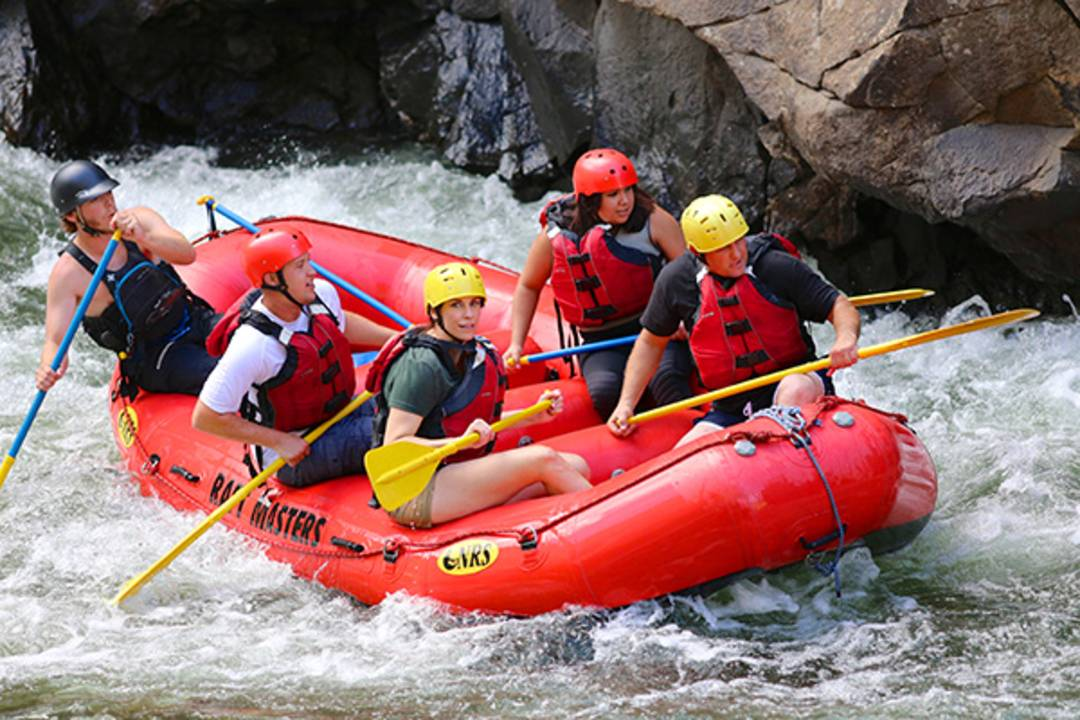
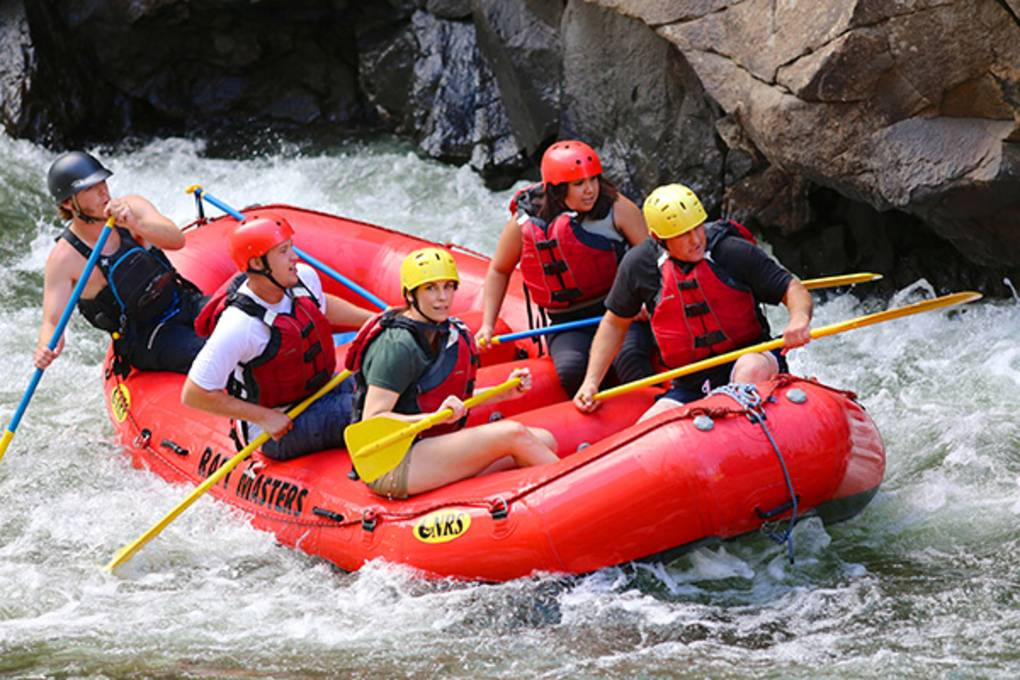
about v3

Changed region(s): [[0.2431, 0.7103, 0.3039, 0.7412], [0.7294, 0.5868, 0.7598, 0.6176], [0.4255, 0.7721, 0.4559, 0.8029]]

diff --git a/wwr/styles/rafting.css b/wwr/styles/rafting.css
@@ -10,9 +10,13 @@
 
 :root {
     --primary-color: #EDC9AF;
+    /* header / hero background */
     --secondary-color: #654321;
+    /* optional, used if needed later */
     --accent1-color: #264653;
+    /* dark text for contrast */
     --accent2-color: #808080;
+    /* lighter gray, used sparingly */
     --heading-font: "Times New Roman", "Georgia", serif;
     --body-font: Arial, Helvetica, sans-serif;
 }
@@ -33,7 +37,8 @@ footer {
 
 header {
     background-color: var(--primary-color);
-    color: var(--accent2-color);
+    color: var(--accent1-color);
+    /* Changed for better contrast */
     display: flex;
     align-items: center;
     justify-content: space-between;
@@ -53,13 +58,12 @@ nav ul {
 
 nav ul li a {
     text-decoration: none;
-    color: var(--accent2-color);
+    color: var(--accent1-color);
+    /* Dark text for good contrast */
     font-weight: bold;
 }
 
 nav ul li a:hover {
-    color: var(--secondary-color);
-    /* used variable to satisfy audit */
     text-decoration: underline;
 }
 
@@ -73,8 +77,7 @@ p {
 h1,
 h2 {
     font-family: var(--heading-font);
-    color: var(--accent1-color);
-    /* better contrast for h2 */
+    color: var(--primary-color);
 }
 
 .hero {
@@ -105,22 +108,28 @@ h2 {
     bottom: 30px;
     left: 20px;
     right: 20px;
-    background-color: rgba(255, 255, 255, 0.75);
+    background-color: rgba(255, 255, 255, 0.65);
+    /* More transparent banner */
+    display: flex;
+    align-items: center;
+    gap: 16px;
     padding: 12px 16px;
     border-radius: 8px;
 }
 
 .hero article img {
     float: right;
-    width: 200px;
+    /* Important for audit */
+    width: 350px;
+    /* slightly bigger */
     height: auto;
-    margin-left: 16px;
     border-radius: 8px;
     box-shadow: 0 2px 6px rgba(0, 0, 0, 0.3);
 }
 
 .hero article p {
     margin: 0;
+    color: var(--accent1-color);
     font-size: 1rem;
 }
 
@@ -145,4 +154,27 @@ footer {
 .socialmedia a img {
     width: 60px;
     height: 60px;
+}
+
+@media (max-width: 900px) {
+
+    header,
+    main,
+    footer {
+        width: 95%;
+    }
+
+    .hero article {
+        flex-direction: column;
+        text-align: center;
+        bottom: 10px;
+        left: 10px;
+        right: 10px;
+    }
+
+    .hero article img {
+        width: 100px;
+        margin-bottom: 8px;
+        float: none;
+    }
 }
